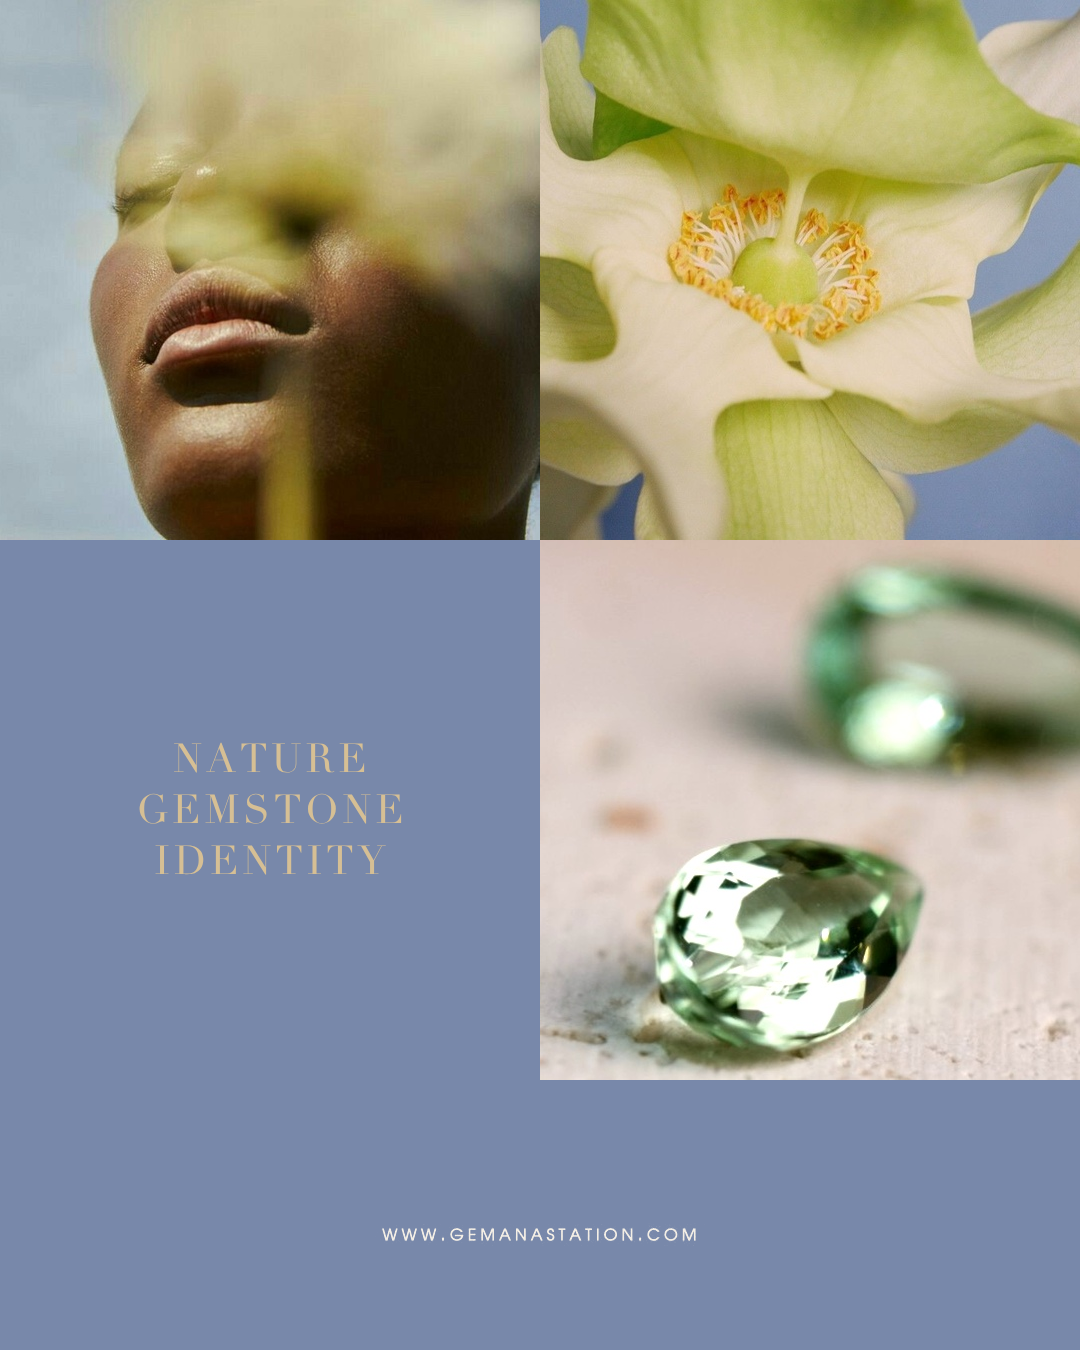
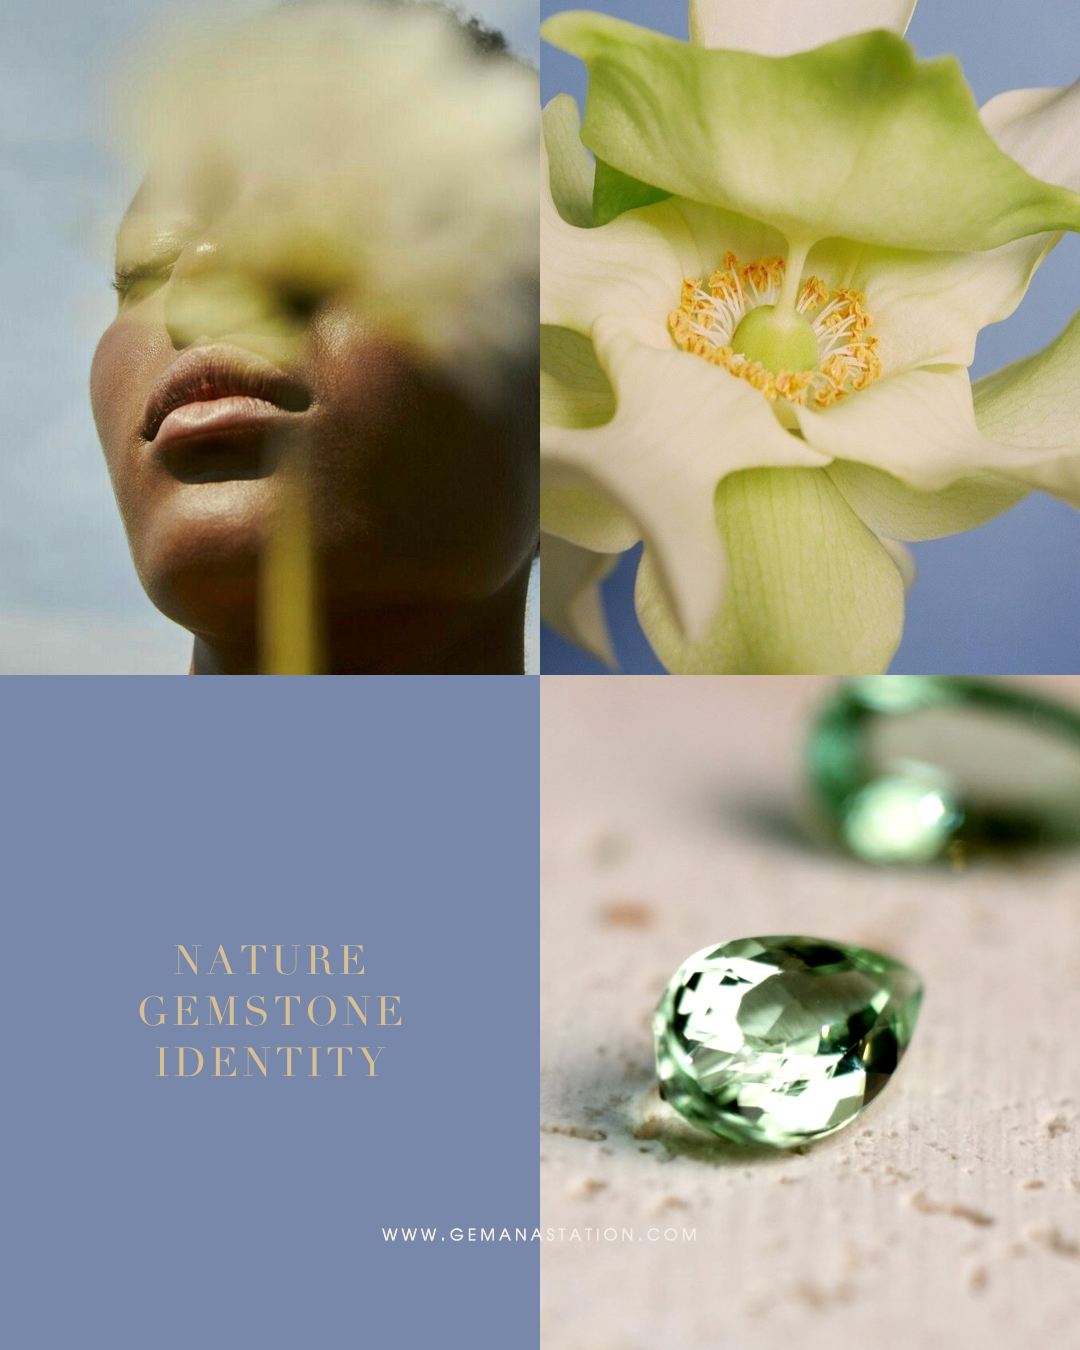
Editorial grid: four 540×675 tiles filling the canvas (master geometry)
Claude-Session: https://claude.ai/code/session_01DPJpbdE4xE8Jg3JGMEEyZy

diff --git a/gem-anastation-reels/editorial_grid/grid_green_tourmaline.html b/gem-anastation-reels/editorial_grid/grid_green_tourmaline.html
@@ -3,14 +3,14 @@
   @font-face { font-family: "DidotR"; src: url(../brand/fonts_licensed/Didot-Regular.ttf); }
   body { margin: 0; }
   #page { position: relative; width: 1080px; height: 1350px; overflow: hidden; background: #7888AA; }
-  .t { position: absolute; width: 540px; height: 540px; display: block; }
-  .words { position: absolute; left: 0; top: 540px; width: 540px; height: 540px; display: flex; flex-direction: column;
+  .t { position: absolute; width: 540px; height: 675px; display: block; }
+  .words { position: absolute; left: 0; top: 675px; width: 540px; height: 675px; display: flex; flex-direction: column;
     justify-content: center; align-items: center; font-family: "DidotR"; font-size: 40px; line-height: 51px;
     letter-spacing: .10em; text-indent: .10em; text-transform: uppercase; color: #D6BF94; }
 </style></head><body><section id="page">
   <img class="t" style="left:0;top:0" src="build/green_tourmaline_human.jpg" alt="">
   <img class="t" style="left:540px;top:0" src="build/green_tourmaline_nature.jpg" alt="">
   <div class="words"><div>Nature</div><div>Gemstone</div><div>Identity</div></div>
-  <img class="t" style="left:540px;top:540px" src="build/green_tourmaline_gem.jpg" alt="">
+  <img class="t" style="left:540px;top:675px" src="build/green_tourmaline_gem.jpg" alt="">
   <img src="build/url_ivory.png" style="position:absolute; left:375px; top:1223px" width="351" height="23" alt="">
 </section></body></html>

diff --git a/gem-anastation-reels/editorial_grid/tools/crop.py b/gem-anastation-reels/editorial_grid/tools/crop.py
@@ -1,5 +1,5 @@
 """GA / NATURE · GEMSTONE · IDENTITY / EDITORIAL GRID — photo crops.
-Each photo is cut to a 540×540 square: (source left, top, side) in source
+Each photo is cut to a 540×675 tile (4:5): (source left, top, width) in source
 pixels, chosen to keep the framing of the approved mock-up (subject at the same
 place in the tile, same scale where the square allows). Only scale + crop.
 Usage: python3 tools/crop.py <set>"""
@@ -12,19 +12,20 @@ from PIL import Image
 ROOT = Path(__file__).resolve().parents[1]
 SETS = {
     "green_tourmaline": {
-        "human":  (31, 313, 680),     # face, lips at ~59 % height as in the mock-up
-        "nature": (120, 236, 800),    # stamens slightly left of centre
-        "gem":    (427, 648, 480),   # front stone low-left, second stone top-right
+        "human":  (31, 216, 680),    # face, lips at ~57 % height as in the mock-up
+        "nature": (120, 136, 800),   # stamens slightly left of centre, mid-height
+        "gem":    (427, 682, 480),   # front stone low-left, second stone top-right
     },
 }
 # Global colour match to the approved mock-up where the client graded a photo
 # (per-channel mean/std transfer; a tonal operation only, nothing retouched).
 GRADE = {("green_tourmaline", "gem"): ("sources/mockup_green_tourmaline.jpg", (546, 721, 1080, 1350))}
 name = sys.argv[1] if len(sys.argv) > 1 else "green_tourmaline"
-for slot, (x, y, side) in SETS[name].items():
+for slot, (x, y, w) in SETS[name].items():
+    h = round(w * 1.25)
     im = Image.open(ROOT / "sources" / f"{name}_{slot}.jpg").convert("RGB")
-    assert x + side <= im.width and y + side <= im.height, (slot, im.size)
-    im = im.crop((x, y, x + side, y + side)).resize((540, 540), Image.LANCZOS)
+    assert x + w <= im.width and y + h <= im.height, (slot, im.size)
+    im = im.crop((x, y, x + w, y + h)).resize((540, 675), Image.LANCZOS)
     if (name, slot) in GRADE:
         ref, box = GRADE[(name, slot)]
         r = np.asarray(Image.open(ROOT / ref).convert("RGB").crop(box)).reshape(-1, 3).astype(np.float32)
@@ -33,4 +34,4 @@ for slot, (x, y, side) in SETS[name].items():
         a = (a - f.mean(0)) / f.std(0) * r.std(0) + r.mean(0)
         im = Image.fromarray(a.clip(0, 255).round().astype(np.uint8))
     im.save(ROOT / "build" / f"{name}_{slot}.jpg", quality=96)
-    print(slot, im.size, "->", (x, y, side))
+    print(slot, "->", (x, y, w, h))

diff --git a/gem-anastation-reels/brand/BRAND.md b/gem-anastation-reels/brand/BRAND.md
@@ -114,9 +114,10 @@ Per card only: gradient photo, stone name, author's text, key phrase, photo.
 
 ## Template — GA / NATURE · GEMSTONE · IDENTITY / EDITORIAL GRID
 Builder: `editorial_grid/tools/crop.py` + `tools/grid.mjs` (one entry per set).
-1080×1350: four 540×540 squares, 2×2, no gaps (human top-left, nature
-top-right, colour plaque bottom-left, gemstone bottom-right); the 270 px
-below continue the plaque colour full width. Plaque words Didot caps 40 px,
-tracking 0.10 em, line pitch 51 px, gold, centred in the plaque square.
-Website line ivory, centred, text top 1228. Per set: three photos (square
+1080×1350: four equal 540×675 tiles, 2×2, no gaps, filling the whole canvas
+(human top-left, nature top-right, colour plaque bottom-left, gemstone
+bottom-right). No extra strips. Plaque words Didot caps 40 px, tracking
+0.10 em, line pitch 51 px, gold, centred in the plaque tile.
+Website line ivory, centred on the canvas over the bottom tiles, text top
+1228. Per set: three photos (4:5
 crops chosen to keep the client's framing), plaque colour, text colour, words.
